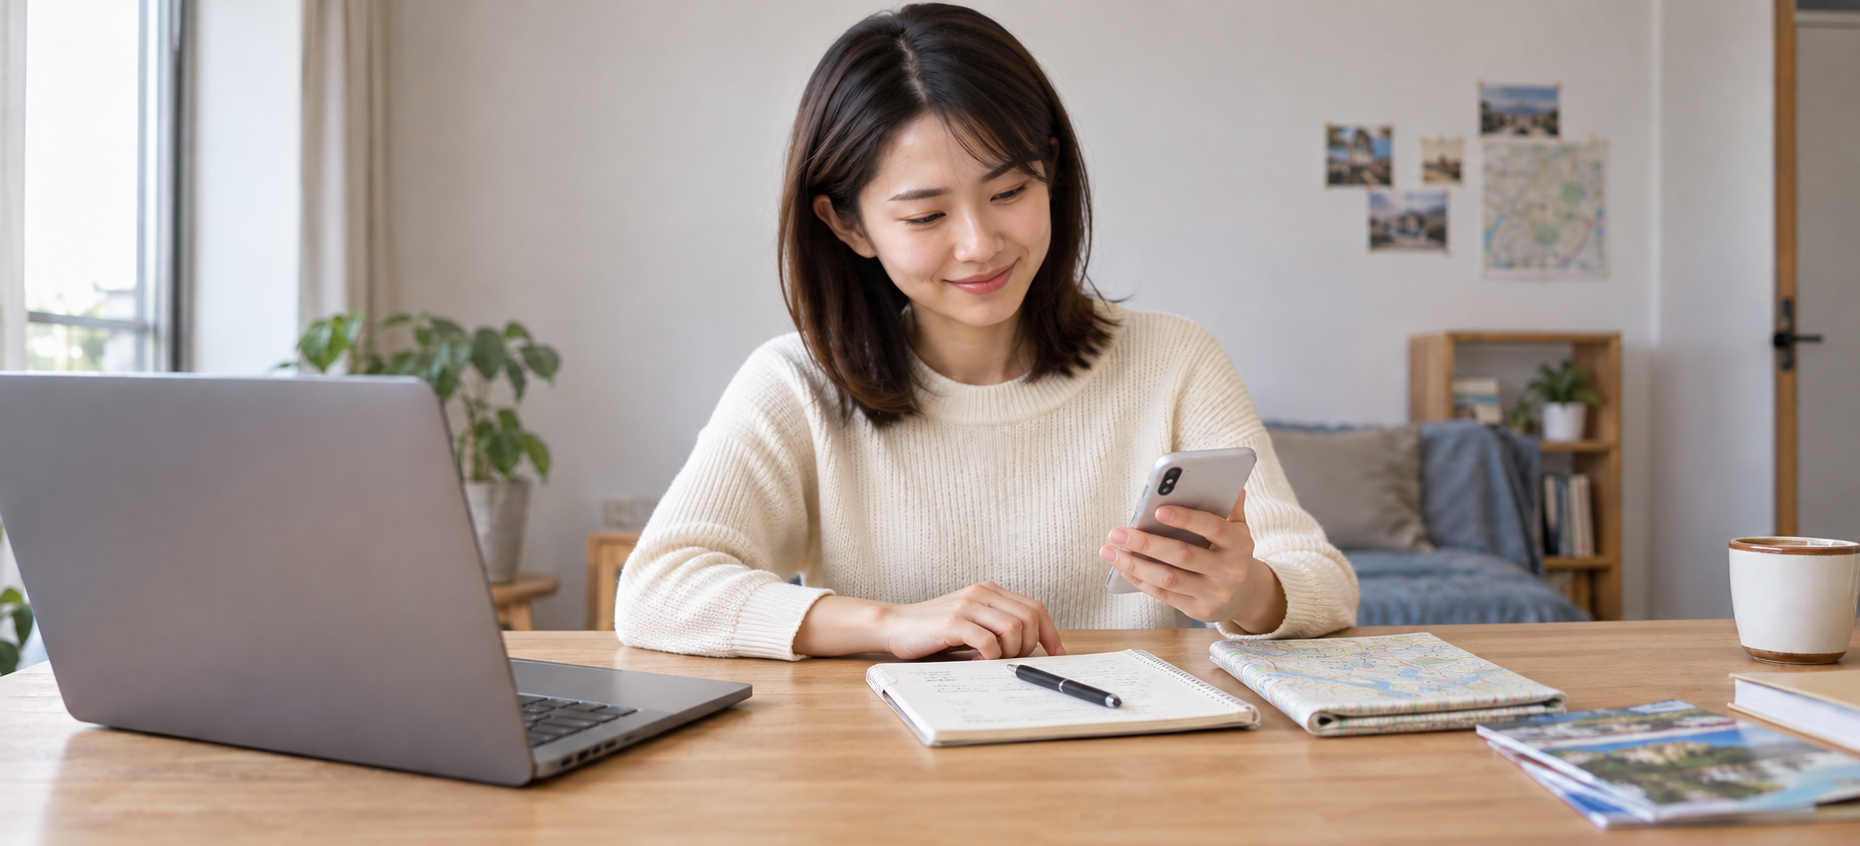
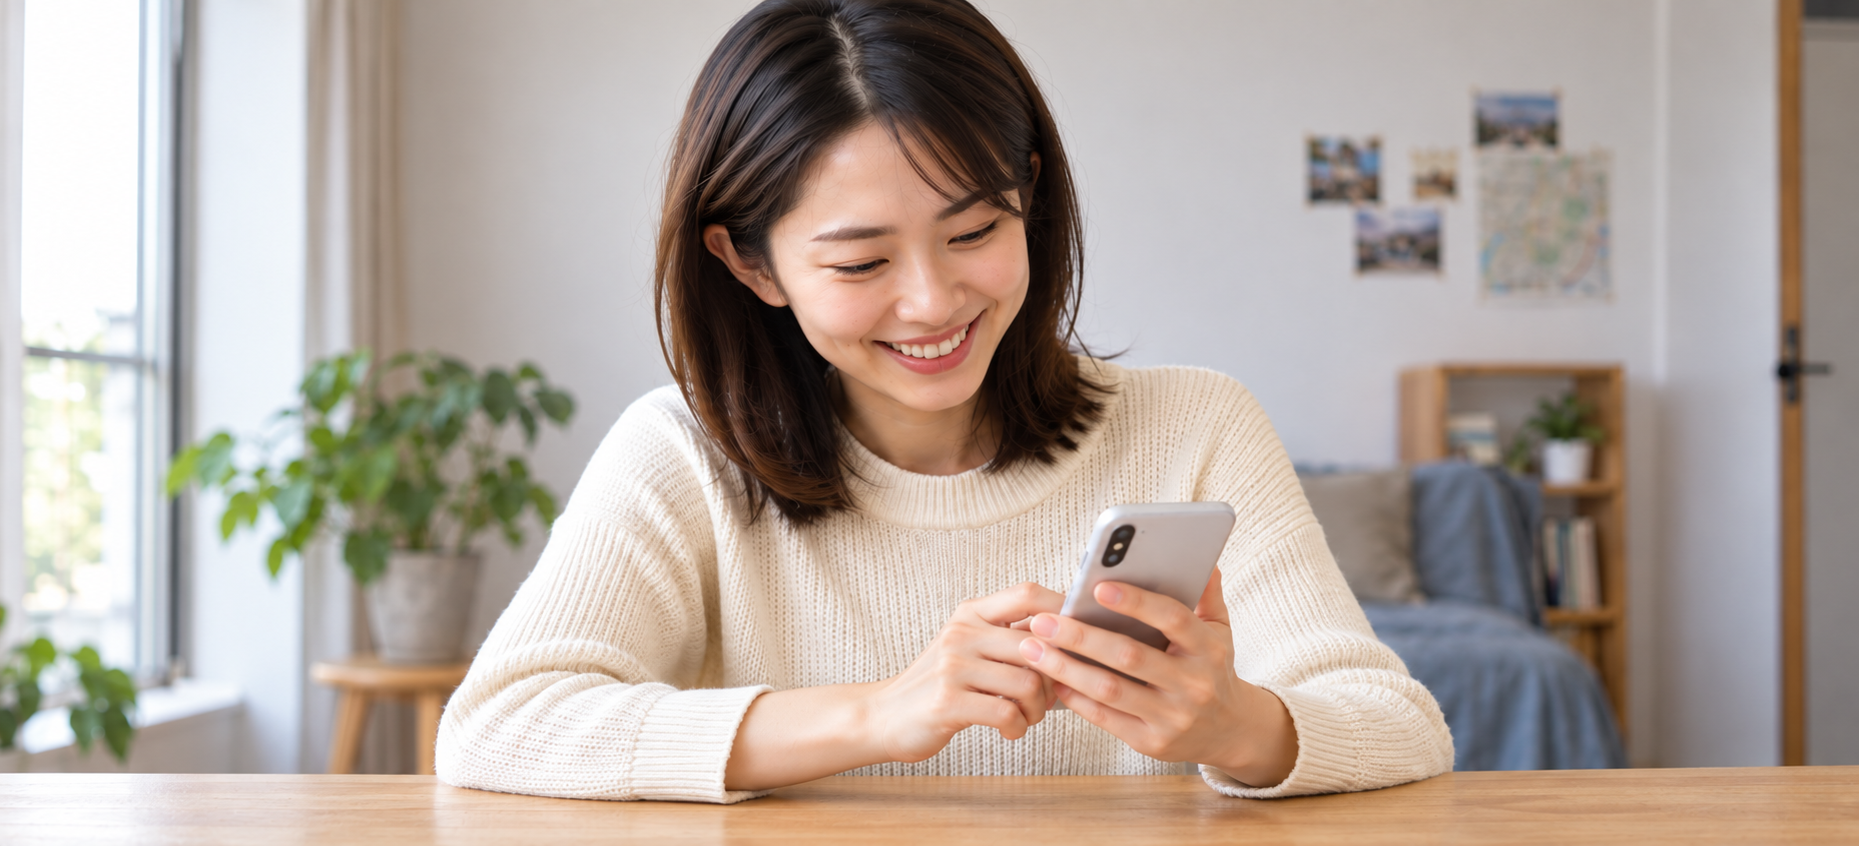
Strengthen the week 7 before and after photo contrast

diff --git a/week07/index.html b/week07/index.html
@@ -37,7 +37,7 @@ h1,h2,h3,p{margin:0}h1,h2,.question{text-wrap:balance}h2{font-size:52.48px;line-
 
 <section class="slide" aria-label="5 / 14"><div class="slide-inner"><div class="topline"><div class="course-mark"><span class="dot"></span><span>問題の確定</span></div><div class="page-no">05</div></div><div class="content"><h2>誰が、どんな場面で困る？</h2><div class="panel"><p class="statement problem-template"><span>［誰が］</span> <span>［どんな状況で］</span> <span>［何をするのが難しい］</span>。</p></div><div class="rows"><div class="row"><span class="label">利用者・場面</span><span class="detail">具体的に想像できる？</span></div><div class="row"><span class="label">問題</span><span class="detail">一つの問題に絞れている？</span></div><div class="row"><span class="label">根拠</span><span class="detail">選んだ資料と、問題文がつながる？</span></div></div></div></div></section>
 
-<section class="slide" aria-label="6 / 14"><div class="slide-inner"><div class="topline"><div class="course-mark"><span class="dot"></span><span>Value</span></div><div class="page-no">06</div></div><div class="content"><h2>利用前・利用後の体験</h2><div class="before-after"><div><h3>Before</h3><img class="value-photo" src="./assets/value-before.png" width="1860" height="846" alt="旅行のルートを決められず、地図やスマートフォンを見比べて困っている旅行者の写真風AI画像" /><p>不便・繰り返す行動・気持ち</p></div><div><h3>After</h3><img class="value-photo" src="./assets/value-after.png" width="1860" height="846" alt="旅行の予定が整理され、落ち着いてスマートフォンを確認する同じ旅行者の写真風AI画像" /><p>楽になること・減る負担<br />できるようになる体験</p></div></div><p class="value-note">「このサービスがあれば、利用者は○○できる。」</p></div><p class="photo-credit">写真：AI生成（授業用イメージ）</p></div></section>
+<section class="slide" aria-label="6 / 14"><div class="slide-inner"><div class="topline"><div class="course-mark"><span class="dot"></span><span>Value</span></div><div class="page-no">06</div></div><div class="content"><h2>利用前・利用後の体験</h2><div class="before-after"><div><h3>Before</h3><img class="value-photo" src="./assets/value-before.png?v=20261013-2" width="1860" height="846" alt="地図・旅行ガイド・メモが散乱した机で、旅行計画に困っている旅行者の写真風AI画像" /><p>不便・繰り返す行動・気持ち</p></div><div><h3>After</h3><img class="value-photo" src="./assets/value-after.png?v=20261013-2" width="1860" height="846" alt="きれいな机でスマートフォンだけを見ながら満面の笑みを浮かべる同じ旅行者の写真風AI画像" /><p>楽になること・減る負担<br />できるようになる体験</p></div></div><p class="value-note">「このサービスがあれば、利用者は○○できる。」</p></div><p class="photo-credit">写真：AI生成（授業用イメージ）</p></div></section>
 
 <section class="slide" aria-label="7 / 14"><div class="slide-inner"><div class="topline"><div class="course-mark"><span class="dot"></span><span>Solution</span></div><div class="page-no">07</div></div><div class="content"><h2>サービスを一文で説明</h2><div class="panel"><p class="statement">［誰］の［どんな問題］を、<br />［どんな方法］で解決するサービス</p></div><ul class="list plain-list"><li>問題の解決に必要な機能・体験を2〜3個</li><li>各機能が、どの困りごとを解決するかを整理</li></ul></div></div></section>
 
